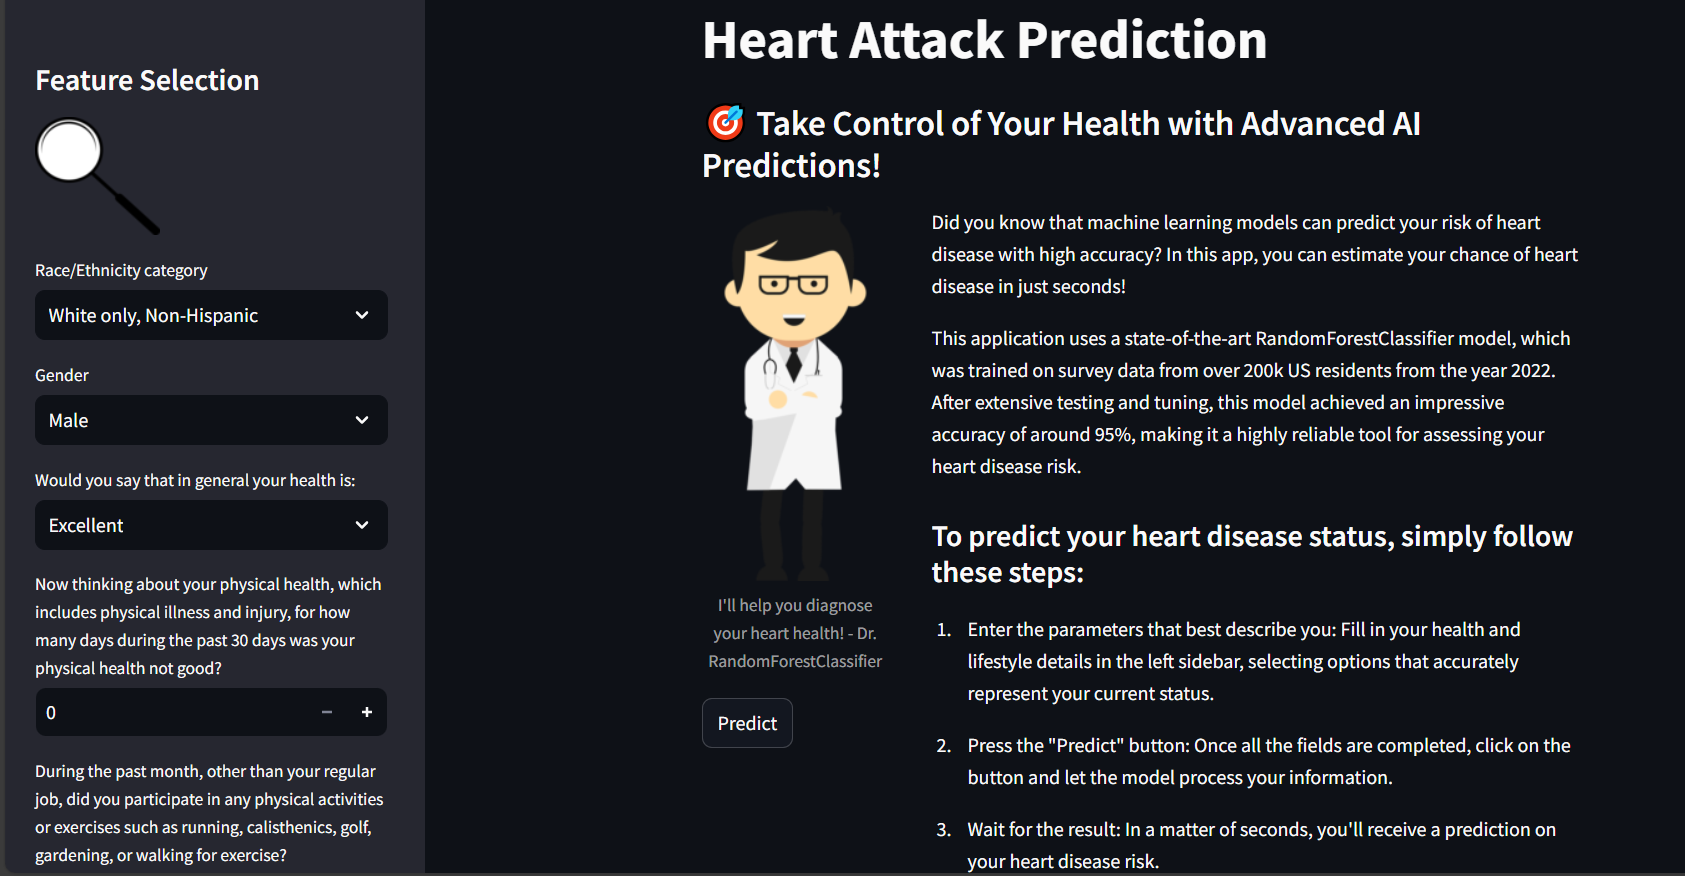
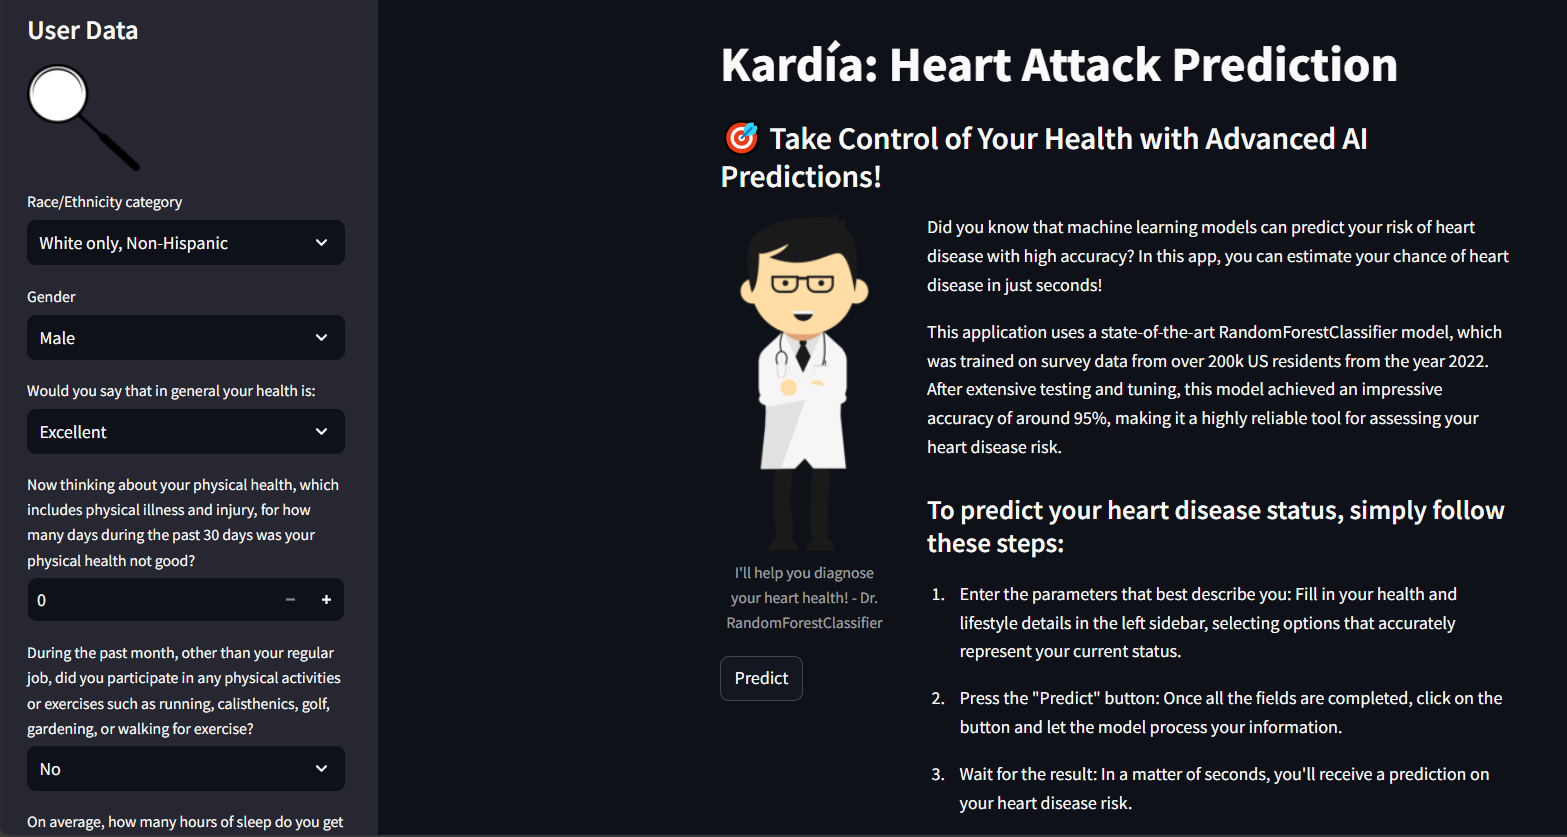
Change sidebar title in app.py

Changed region(s): [[0.0, 0.0, 1.0, 1.0], [0.4288, 0.2485, 0.9496, 0.5591], [0.3982, 0.0311, 0.8883, 0.2485]]

diff --git a/DataScience/app.py b/DataScience/app.py
@@ -87,10 +87,10 @@ RACE_NUM = {v: k for k, v in RACE_TXT.items()}
 # ================================= Main Body =============================================
 st.set_page_config(
         page_title="Heart Attack Prediction",
-        page_icon="images/heart_real.png"
+        page_icon="images/heart_logo.png"
     )
 
-st.title("Heart Attack Prediction")
+st.title("Kardía: Heart Attack Prediction")
 st.subheader("🎯 Take Control of Your Health with Advanced AI Predictions!")
 
 col1, col2 = st.columns([1, 3])
@@ -121,7 +121,7 @@ with col2:
     """)
 
 # ================================= Sidebar =============================================
-st.sidebar.title("Feature Selection")
+st.sidebar.title("User Data")
 st.sidebar.image("images/magnifier.png", width=100)
 
 # Input fields
